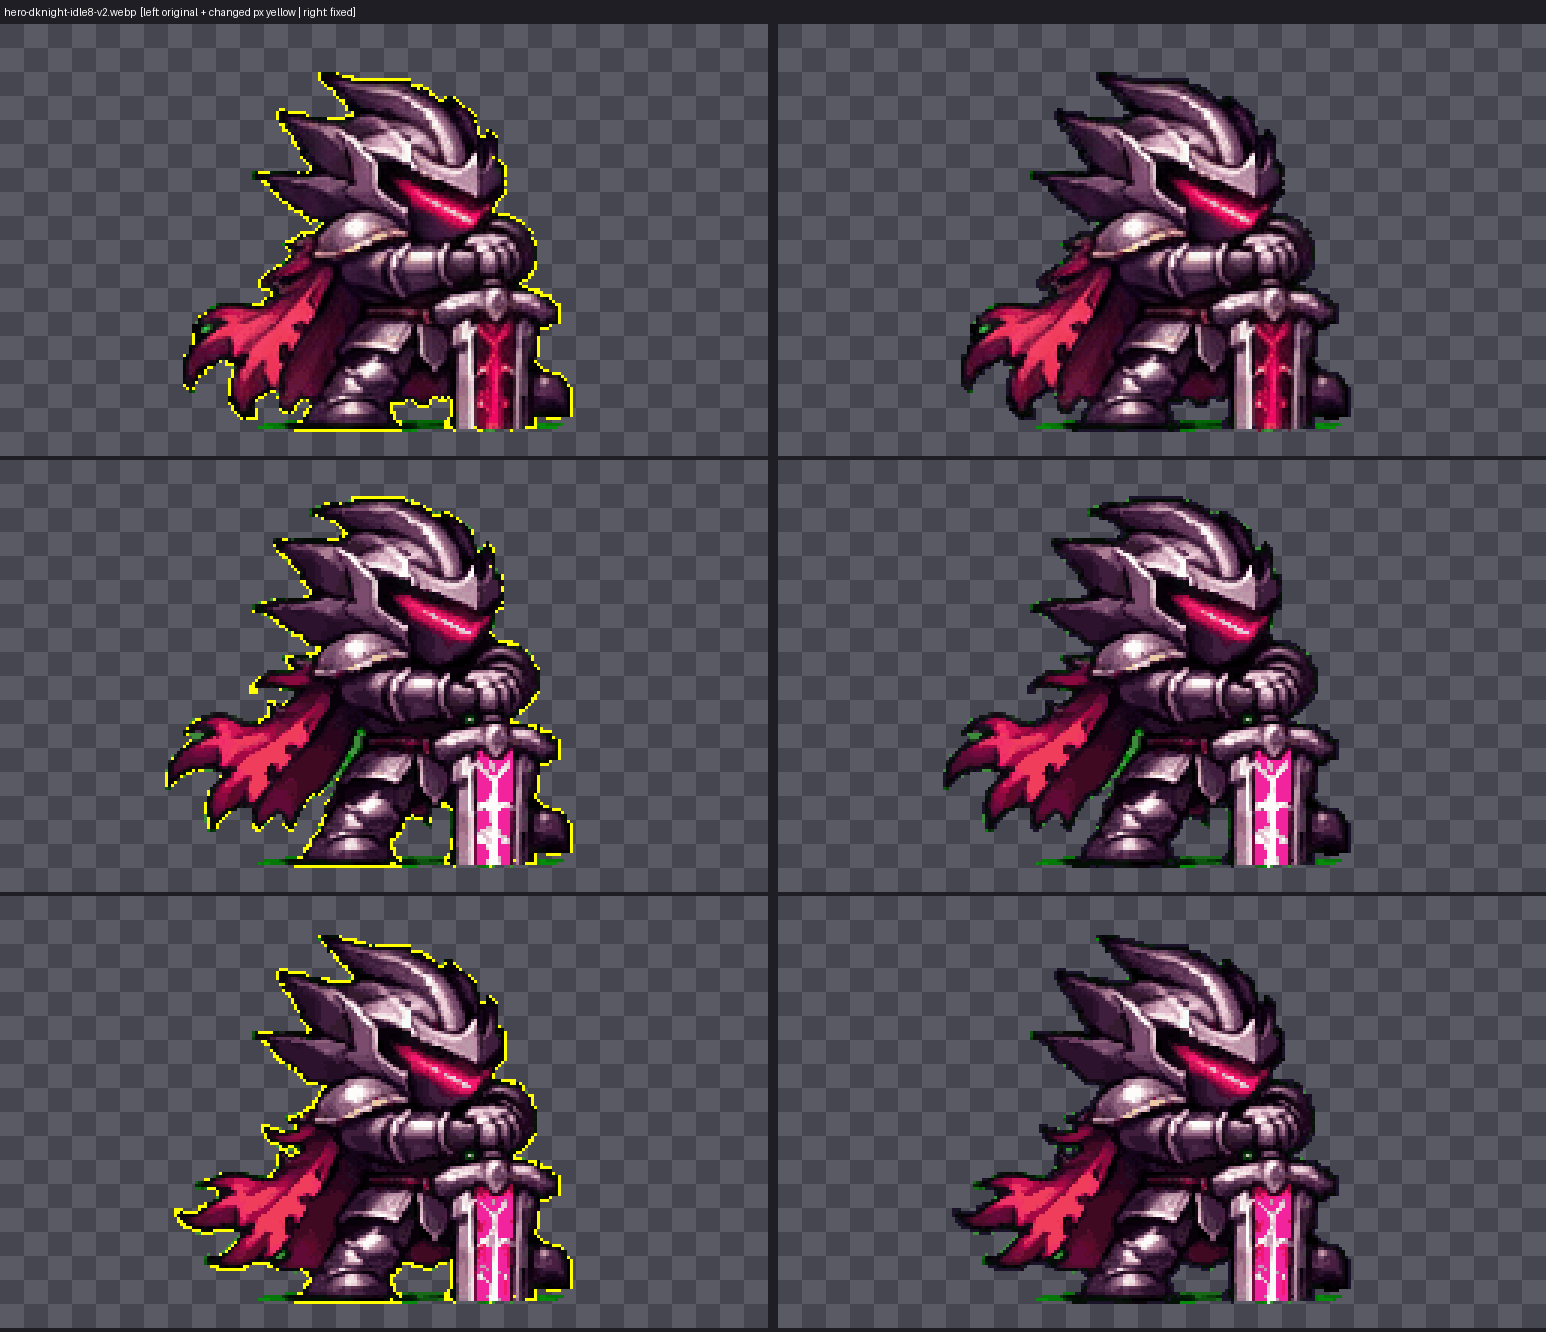
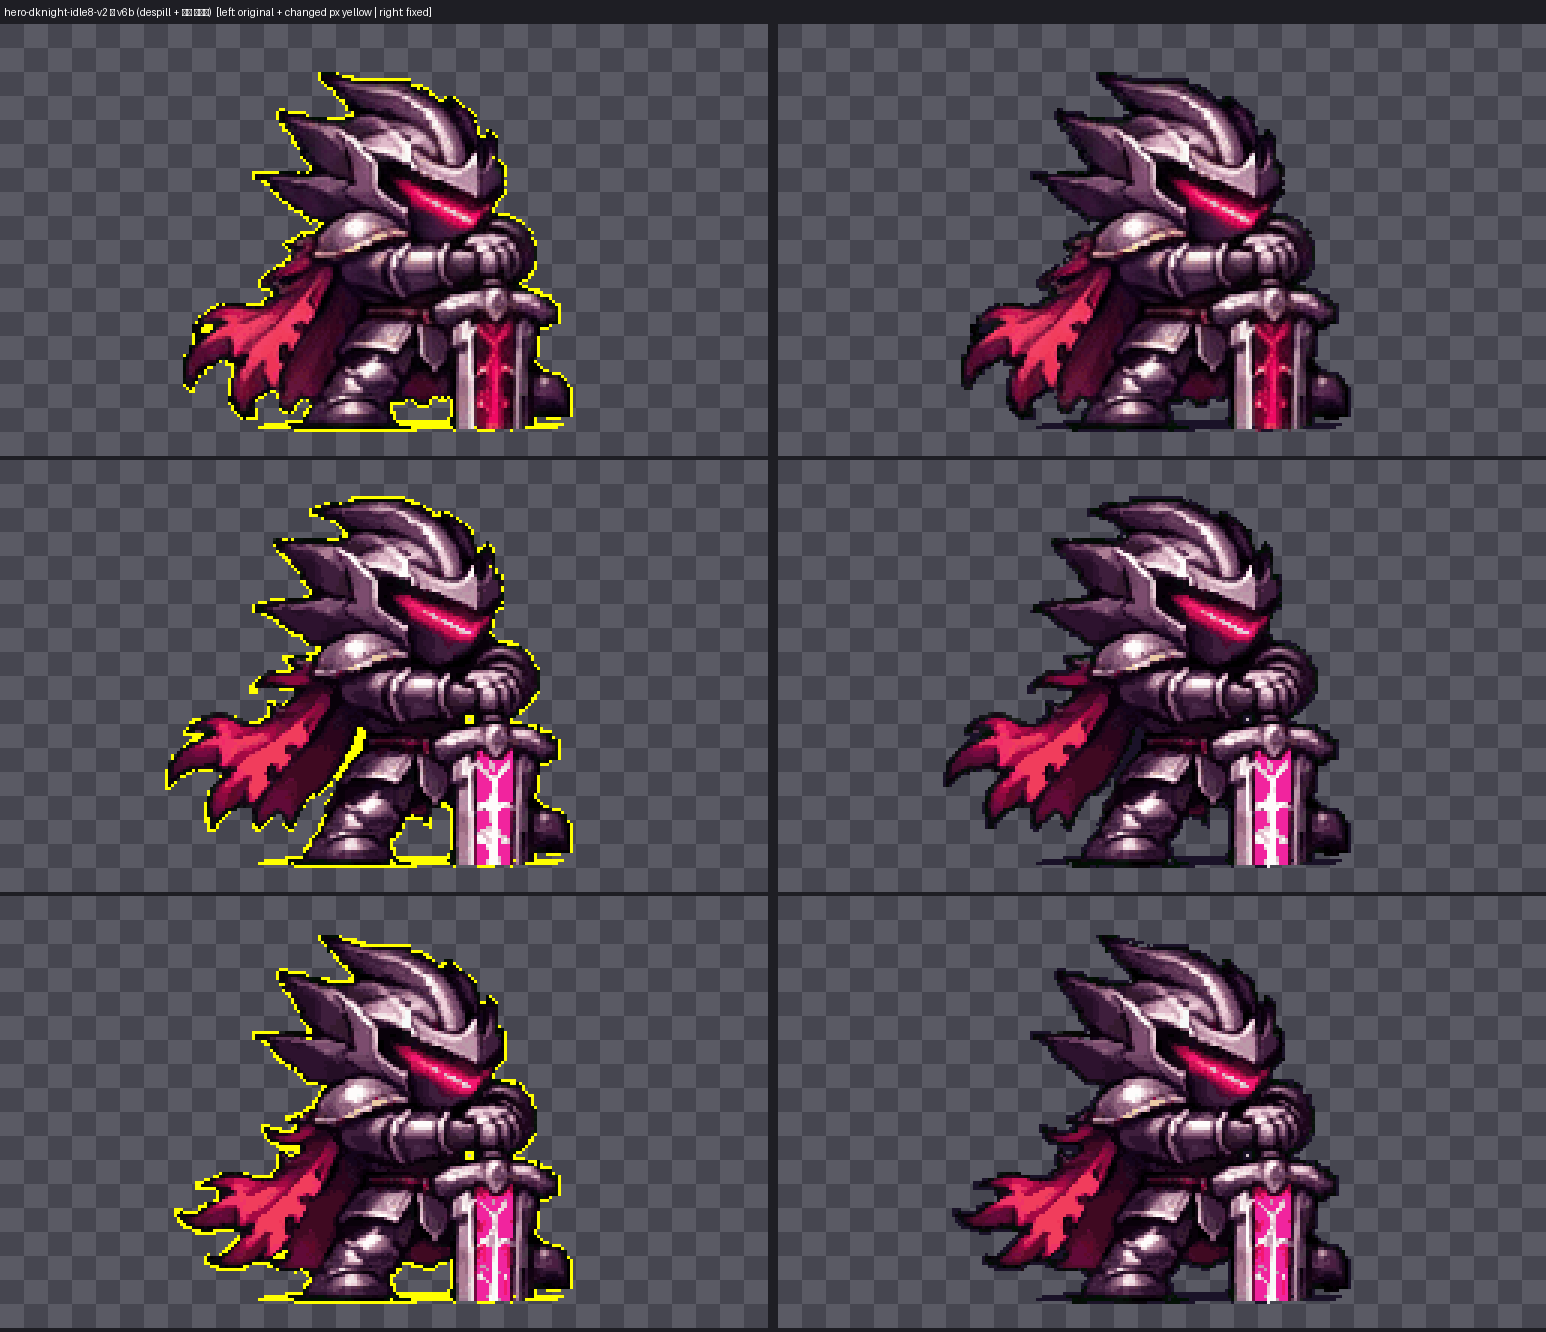
🧙 v6b · 녹스 숨쉬기 · 전투 초록 찌꺼기 · 해골소환사 발 초록
Claude-Session: https://claude.ai/code/session_014JJv1iT9XzfLrj7P6GDYkT

diff --git a/docs/handoff/asset-audit-1120/despill7.py b/docs/handoff/asset-audit-1120/despill7.py
@@ -1,0 +1,78 @@
+#!/usr/bin/env python3
+"""v6 가장자리 despill — python3 -I despill6.py <public/art> <출력 폴더>
+규칙: 투명에 닿은(2px 안) 가장자리 픽셀 중 초록/분홍(크로마키색)쪽으로 쏠린 것만 · 안쪽 5×5 에 같은 색이 많으면(= 진짜 마법 · 이펙트 · 옷) 그대로 둠 ·
+      고칠 때는 이웃 중 쏠리지 않은 불투명 픽셀 색 평균으로 · 이웃이 없으면 지움. alpha 는 지울 때만 바뀜. 칸 크기 256×144."""
+import sys, os, glob, json
+import numpy as np
+from PIL import Image
+from scipy import ndimage as ndi
+ART, OUT = sys.argv[1], sys.argv[2]
+CW, CH = 256, 144
+def tint(rgb, op):
+    R, G, B = rgb[..., 0], rgb[..., 1], rgb[..., 2]
+    green = op & (G >= R + 12) & (G >= B + 12) & (G >= 24)
+    pink = op & (R >= G + 30) & (B >= G + 30) & (R >= 60) & (B >= 60)
+    return green, pink
+def despill(cell):
+    a = cell[..., 3]; op = a > 0; rgb = cell[..., :3].astype(int)
+    out = cell.copy()
+    transp = ~op
+    band = op & ndi.binary_dilation(transp, structure=ndi.generate_binary_structure(2, 1), iterations=2)
+    edge = op & ndi.binary_dilation(transp, structure=ndi.generate_binary_structure(2, 1))
+    green, pink = tint(rgb, op)
+    T = green | pink
+    inner = op & ~band
+    k = np.ones((5, 5))
+    cnt_in = ndi.convolve(inner.astype(float), k, mode='constant')
+    V = rgb.max(-1)
+    cnt_g = ndi.convolve((green & inner & (V >= 80)).astype(float), k, mode='constant')
+    cnt_p = ndi.convolve((pink & inner & (V >= 80)).astype(float), k, mode='constant')
+    frac = np.where(green, cnt_g, cnt_p) / np.maximum(cnt_in, 1)
+    # 안쪽이 하나도 없으면(얇은 조각) 바깥 쪽 포함해서 계산
+    cnt_all = ndi.convolve(op.astype(float), k, mode='constant'); cnt_tall = ndi.convolve(T.astype(float), k, mode='constant')
+    cnt_gall = ndi.convolve(green.astype(float), k, mode='constant'); cnt_pall = ndi.convolve(pink.astype(float), k, mode='constant')
+    frac = np.where(cnt_in > 0, frac, np.where(green, cnt_gall, cnt_pall) / np.maximum(cnt_all, 1))
+    bad = band & T & (frac < 0.4)
+    good = op & ~T
+    changed = 0
+    sums = [ndi.convolve(np.where(good, rgb[..., c], 0).astype(float), k, mode='constant') for c in range(3)]
+    gcnt = ndi.convolve(good.astype(float), k, mode='constant')
+    ys, xs = np.where(bad)
+    kept_bright = 0
+    for y, x in zip(ys, xs):
+        lum = 0.3 * rgb[y, x, 0] + 0.59 * rgb[y, x, 1] + 0.11 * rgb[y, x, 2]
+        R0, G0, B0 = rgb[y, x]
+        nearkey = (G0 >= R0 + 80 and G0 >= B0 + 40) or (R0 >= G0 + 100 and B0 >= G0 + 100)   # 크로마키(초록 · 마젠타)에 섞인 색 — 청록 · 분홍 빛과 구별
+        if lum < 75:
+            out[y, x, :3] = (26, 18, 40)          # 어두운 초록 · 분홍 테두리 = 표준 윤곽선 색(남보라)으로
+        elif not nearkey:
+            kept_bright += 1; continue            # 밝은 이펙트 색(연두 · 분홍 빛)은 그대로
+        elif gcnt[y, x] >= 1:
+            out[y, x, :3] = [int(round(sums[c][y, x] / gcnt[y, x])) for c in range(3)]
+        else:
+            out[y, x, 3] = 0
+        changed += 1
+    return out, changed, int((edge & T).sum())
+if __name__ == '__main__':
+    os.makedirs(OUT, exist_ok=True)
+    pats = [('heroes/hero-*-v5.webp', 'v5', 'v6'), ('heroes/hero-*-idle8-v1.webp', 'idle8-v1', 'idle8-v6')]
+    rows = []; seen = set()
+    for pat, a, b in pats:
+        for f in sorted(glob.glob(os.path.join(ART, pat))):
+            name = os.path.basename(f)
+            if name in seen: continue
+            seen.add(name)
+            im = np.array(Image.open(f).convert('RGBA')); out = im.copy(); H, W = im.shape[:2]
+            fixed = 0; before = 0; cells = []
+            for r in range(H // CH):
+                for c in range(W // CW):
+                    sl = (slice(r*CH, (r+1)*CH), slice(c*CW, (c+1)*CW))
+                    cell = im[sl]
+                    if not (cell[..., 3] > 0).any(): continue
+                    o, n, e = despill(cell); out[sl] = o; fixed += n; before += e
+                    if n: cells.append((r, c, n))
+            newname = name.replace('-' + a + '.webp', '-' + b + '.webp') if a == 'idle8-v1' else name.replace('-v5.webp', '-v6.webp')
+            Image.fromarray(out, 'RGBA').save(os.path.join(OUT, newname), lossless=True, exact=True)
+            rows.append(dict(file=name, out=newname, fixed=fixed, edge_tinted=before, cells=cells))
+    json.dump(rows, open(os.path.join(OUT, 'despill6.json'), 'w'), ensure_ascii=False)
+    print(len(rows), 'files', sum(r['fixed'] for r in rows), 'px fixed')

diff --git a/docs/handoff/asset-audit-1120/greenjunk.py b/docs/handoff/asset-audit-1120/greenjunk.py
@@ -1,0 +1,30 @@
+#!/usr/bin/env python3
+"""녹스(붉은 · 검은 용사)의 크로마키 초록 찌꺼기(발 줄 · 망토 점) 지우기 — 녹스 몸에는 초록이 없으므로 초록 쏠림 픽셀을 모두 처리.
+초록 조각이 몸(초록 아닌 불투명 픽셀)과 맞닿지 않으면 지우고, 닿으면 윤곽선 색(#1a1228)으로."""
+import sys, numpy as np
+from PIL import Image
+from scipy import ndimage as ndi
+def clean(cell):
+    out = cell.copy(); a = cell[..., 3]; op = a > 0; rgb = cell[..., :3].astype(int)
+    R, G, B = rgb[..., 0], rgb[..., 1], rgb[..., 2]
+    g = op & (G >= R + 12) & (G >= B + 12) & (G >= 24)
+    lab, n = ndi.label(g, structure=np.ones((3, 3)))
+    body = op & ~g
+    n_chg = 0
+    for i in range(1, n + 1):
+        m = lab == i
+        touch = ndi.binary_dilation(m, structure=np.ones((3, 3))) & body
+        if touch.sum() == 0 or m.sum() <= 3:
+            out[m, 3] = 0
+        else:
+            out[m, :3] = (26, 18, 40)
+        n_chg += int(m.sum())
+    return out, n_chg
+if __name__ == '__main__':
+    src, dst, title = sys.argv[1], sys.argv[2], sys.argv[3]
+    im = np.array(Image.open(src).convert('RGBA')); out = im.copy(); H, W = im.shape[:2]; tot = 0
+    for r in range(H // 144):
+        for c in range(W // 256):
+            sl = (slice(r*144, (r+1)*144), slice(c*256, (c+1)*256)); o, n = clean(im[sl]); out[sl] = o; tot += n
+    chg = (im != out).any(-1); assert ((im[..., 3] == out[..., 3]) | (out[..., 3] == 0))[chg].all()
+    Image.fromarray(out, 'RGBA').save(dst, lossless=True, exact=True); print(dst, 'green px', tot, 'changed', int(chg.sum()))

diff --git a/docs/handoff/asset-audit-1120/v6/REPORT.md b/docs/handoff/asset-audit-1120/v6/REPORT.md
@@ -88,3 +88,11 @@
 | hero-bard-idle8-v1.webp | hero-bard-idle8-v6.webp | 1204 | 537 | 49 |
 | hero-dknight-awk-idle8-v1.webp | hero-dknight-awk-idle8-v6.webp | 707 | 0 | 0 |
 | hero-paladin-awk-idle8-v1.webp | hero-paladin-awk-idle8-v6.webp | 31 | 0 | 0 |
+
+## v6b (2026-11-20 · 머리 지시 「초록 찌꺼기 지우기」)
+| 파일 | 내용 |
+|---|---|
+| hero-dknight-idle8-v6b.webp | 베타 쓰는 녹스 숨쉬기 v2(대검)에서 despill + **발 아래 초록 줄 · 망토 초록 점 제거**(8칸) · 비교 cmp/hero-dknight-idle8-v6b.png |
+| hero-dknight-v6b.webp | 녹스 전투 시트 v6 에서 같은 **초록 찌꺼기 제거**(녹스에는 초록이 없어 초록 쏠림 모두 처리 · 발 줄은 윤곽선 색으로) · 비교 cmp/hero-dknight-v6b.png |
+| hero-bone-v6b.webp | 해골 소환사 1,0칸 발 아래 **초록 덩어리 111px 제거**(그 칸만) · 비교 cmp/hero-bone-v6b.png |
+다른 용사 바닥 초록 줄 훑기(발 근처 가로로 8px 이상 이어진 초록): 녹스(전투 18칸 · 숨쉬기 8칸) · 해골 소환사 1칸만 해당 · 사제(8,0 · 8,1) · 마녀(5,1)는 초록 힐 이펙트라 그대로. 스크립트 = greenjunk.py.
